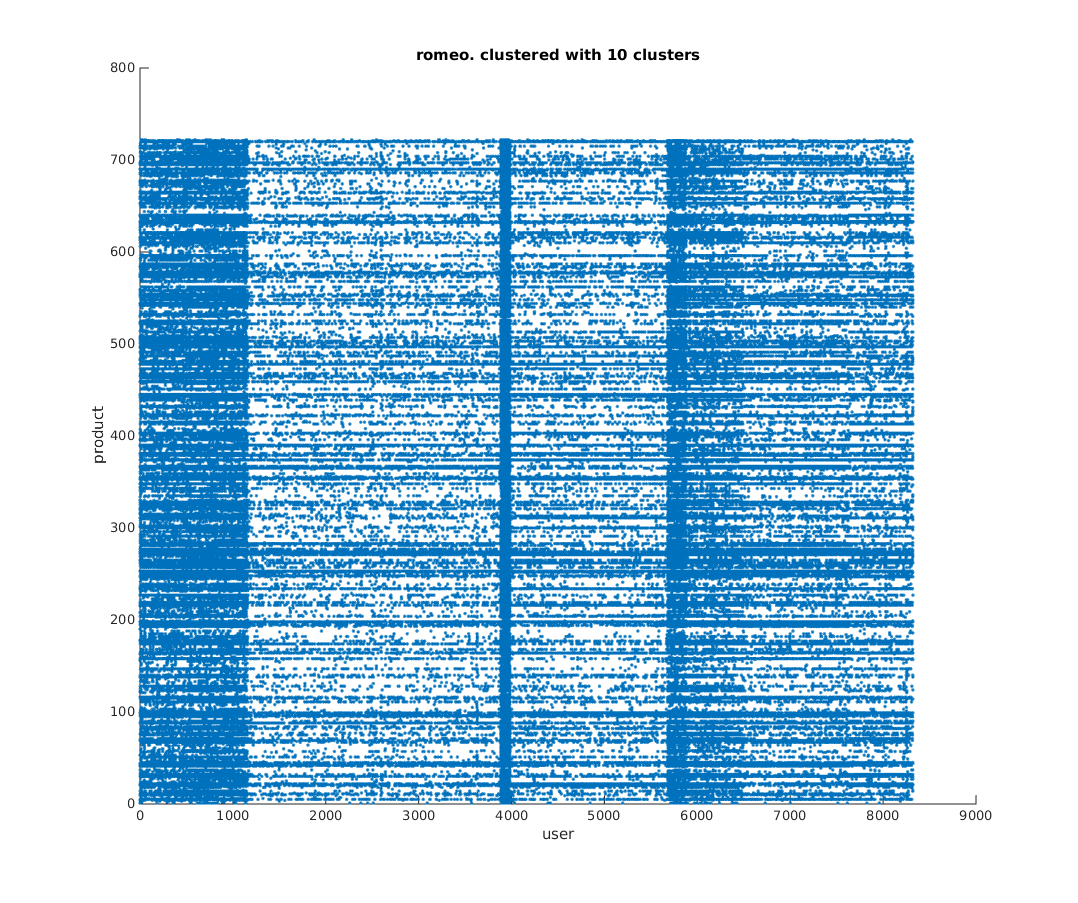
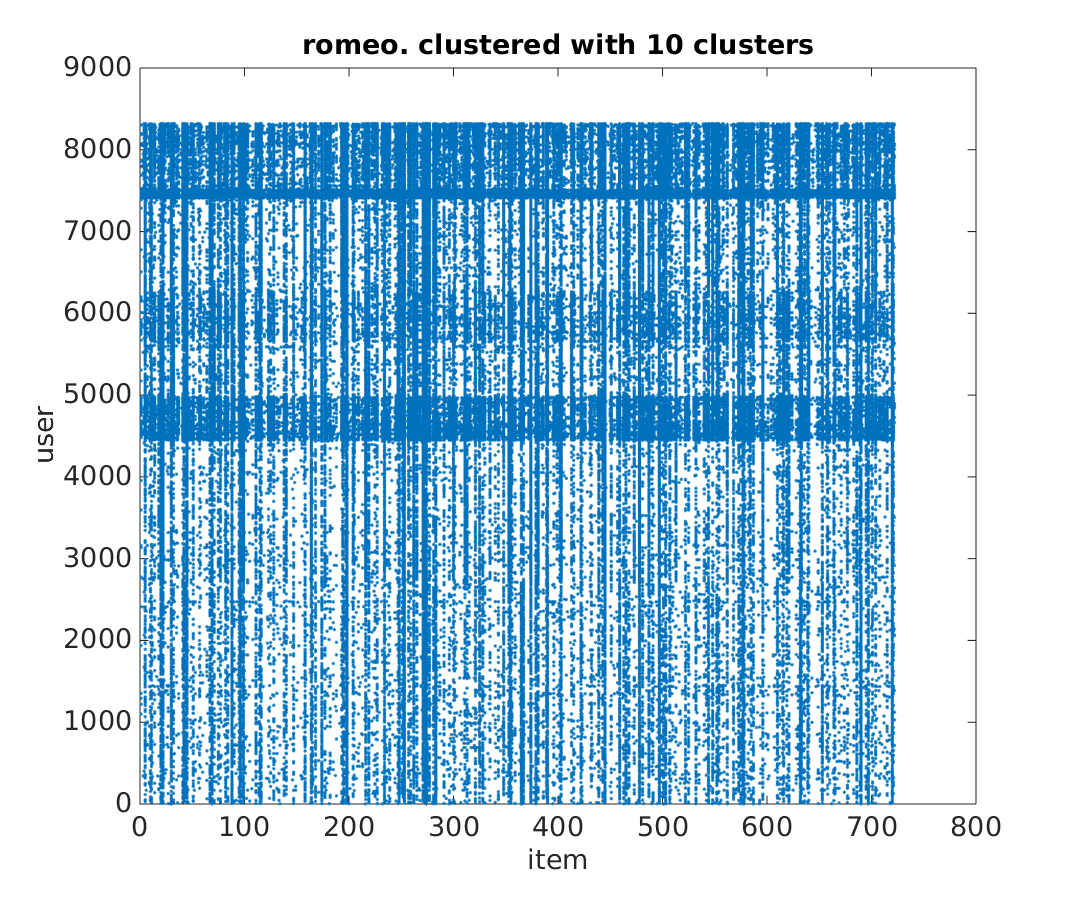
Clustering analysis. Attempt to improve related work.

diff --git a/report/related_work.tex b/report/related_work.tex
@@ -1,24 +1,28 @@
 \chapter{Related Work}\label{cha:relwork}
 
-\Warning[TODO]{ Bind more to questions! }
+A lot of research has been put into recommender systems \citep{bobadilla2013recommender}. Most articles are concerned with improving accuracy of recommender system results, such as minimizing \textit{Root of Mean Square Error} \prmse. This was the case for the popular Netflix Prize \citep{bennett2007netflix} which was concerned with recommending movies given user ratings for other movies. \textit{Explicit feedback} recommender systems continue to be a well researched area \citep{bobadilla2013recommender}. \textit{Implicit feedback} systems, which is the focus of this thesis, have grown in popularity and are being actively researched \citep{hu2008collaborative, bobadilla2013recommender}.
 
-A lot of research has been put into recommender systems \citep{bobadilla2013recommender}. Most articles are concerned with improving accuracy of recommender system results, such as minimizing \textit{Root of Mean Square Error} (\rmse). This was the case for the popular Netflix Prize \citep{bennett2007netflix} which was concerned with recommending movies given user ratings for other movies. Explicit feedback recommender systems continue to be a well researched area \citep{bobadilla2013recommender}.
+According to \citep{lai2012hybrid} the \textit{Top-N Recommendation problem} is the real problem of many on-line recommender systems and it's common to seek improvements for recommendation quality, using \textit{Precision} or \textit{Recall} \citep{bobadilla2013recommender}. This is also the focus of this thesis.
 
-According to \citep{lai2012hybrid} the \textit{Top-N Recommendation problem} is the real problem of many on-line recommender systems and it's common to seek improvements for recommendation quality, using \textit{Precision} or \textit{Recall} \citep{bobadilla2013recommender}. The 2nd Linked Open Data-enabled Recommender Systems Challenge
+The 2nd Linked Open Data-enabled Recommender Systems Challenge
 \footnote{2nd Linked Open Data-enabled Recommender Systems Challenge, 2015. \url{http://sisinflab.poliba.it/events/lod-recsys-challenge-2015/}}
-is another competition which focuses on improving recommendation quality for the Top-N Recommendation problem as well as additional objectives such as \textit{diversity} \citep{bobadilla2013recommender}.
-\Warning[TODO]{ Describe the Top-N rec problem before! }
+is another competition which focuses on improving recommendation quality for the Top-N Recommendation problem as well as additional objectives such as \textit{diversity} \citep{bobadilla2013recommender}. The recommender system challenge uses \textit{explicit feedback} in the form of likes, but the data format is compatible with the model this thesis uses \eqref{eq:hist}. They do use item meta-data such as genres, albums and actors which is not applicable to the general \textit{implicit feedback} system this thesis is focused on.
 
-Implicit feedback systems have grown in popularity and are also being researched \citep{hu2008collaborative, bobadilla2013recommender}. Together with the research many versions of different recommender systems have been implemented, with recommender systems becoming more and more popular \citep{bobadilla2013recommender}. One of the most popular types are hybrid recommender systems which combine different types of data and algorithms \citep{bobadilla2013recommender, lai2012hybrid}. This was the winning approach for the Netflix Prize which combined 107 different algorithms in different ways to produce the final recommendations
+Together with the research many versions of different recommender systems have been implemented, with recommender systems becoming more and more popular \citep{bobadilla2013recommender}. One of the most popular types are hybrid recommender systems which combine different types of data and algorithms \citep{bobadilla2013recommender, lai2012hybrid}. This was the winning approach for the Netflix Prize which combined 107 different algorithms in different ways to produce the final recommendations
 \footnote{ Netflix: Recommendations beyond 5 stars (Part 1), 2012. \url{http://techblog.netflix.com/2012/04/netflix-recommendations-beyond-5-stars.html} }.
 
 A related approach is to organize the data into different subsets or clusters and then make recommendations using these subsets. This was negatively evaluated by \citep{cacheda2011comparison} however more positive results were given by a \textit{Clustered Low-Rank Approximation} \citep{niklas, savas2011clustered}.  This was evaluated for user ratings using \rmse and speed benefits were theorized upon but not evaluated.
+\Warning[TODO]{ Shall we use or don't use this clustering? }
+
+Optimization strategies for parameter tuning differ depending on the algorithms. Alternating-least-squares is an algorithm with it's own optimization process \citep{hu2008collaborative} and variations of gradient descent is a popular choice for optimizing continuous functions \citep{cacheda2011comparison}. These are not applicable and no literature concerning parameter optimization could be found for either \textit{link-analysis} nor \textit{katz-eig}.  Grid search seems to be the recommended approach for optimizing hyperparameters
+\footnote{Recommended by Andrew Ng for the course Machine Learning, Stanford. \url{https://class.coursera.org/ml-006}}
+.
 
 The \textit{link-analysis} algorithm compared favorably in recommendation quality by \citep{huang2007comparison}. But without any analysis of the algorithm's parameters and no mention of the relative speed of the algorithm. The parameter values are simply stated but not commented on any further. No literature with further comments on the parameters could be found.
 
-Similarly \textit{katz-eig} had some positive recommendation quality results \citep{shin2012multi} but no parameter analysis and no mention of the algorithm's speed. No literature for parameter tuning could be found.
+Similarly \textit{katz-eig} had some positive recommendation quality results \citep{shin2012multi} but without parameter analysis and no mention of the algorithm's speed. No literature for parameter tuning could be found.
 
-There is research for how to optimize parameters and learn models for other algorithms, but no such literature could be found for \textit{link-analysis} or \textit{katz-eig}.
+%There is research for how to optimize parameters and learn models for other algorithms, but no such literature could be found for \textit{link-analysis} or \textit{katz-eig}.
 
 \Warning[TODO]{ Mention evaluation metrics }
 

diff --git a/report/results/data.tex b/report/results/data.tex
@@ -18,71 +18,7 @@
 
 \textit{Some description here?}
 
-\subsection{Number of interactions}\label{sec:result:interactions}
+\input{data/interactions.tex}
 
-What follows is some graphs describing the number of interactions each user has and the number of interaction each item has in the datasets.
-
-\FloatBarrier
-
-\twopic{fig/data/alphaS_items_per_user.png}{fig/data/alphaS_users_per_item.png}{
-\textit{alphaS}
-}
-
-In \textit{alphaS} each user and each item has interactions with a small fraction of the available items and users. There are many users with very few interactions and also many items which few users has interacted with. In contrary to the appearance of these graphs, no users or items have 0 interactions. There are a couple of users with more than 400 interactions and there are some items which more than 600 users have bought.
-
-The graphs for \textit{alpha} and \textit{alpha2} are very similar but not included as the large dataset size makes the histogram barely visible. The basic appearance is the same with very many with few interactions and few with a lot of interactions, both for users and for items.
-
-\newpage
-
-\twopic{fig/data/eswc2015books_items_per_user.png}{fig/data/eswc2015books_users_per_item.png}{
-\textit{eswc2015books}
-}
-
-\twopic{fig/data/eswc2015movies_items_per_user.png}{fig/data/eswc2015movies_users_per_item.png}{
-\textit{eswc2015movies}
-}
-
-\twopic{fig/data/eswc2015music_items_per_user.png}{fig/data/eswc2015music_users_per_item.png}{
-\textit{eswc2015music}
-}
-
-\FloatBarrier
-
-All eswc datasets have similar distributions with more concentrated interactions. There is a lower limit for the number of interactions each user has, this is probably a constraint eswc introduced when creating the datasets. There are also no extreme outliers with many more interactions than the norm.
-
-The item interactions are more spread, with many items having interacted with relatively few user but some items having a lot of interactions.
-
-\newpage
-
-\twopic{fig/data/movielens1m_items_per_user.png}{fig/data/movielens1m_users_per_item.png}{
-\textit{movielens1m}
-}
-
-\twopic{fig/data/romeo_items_per_user.png}{fig/data/romeo_users_per_item.png}{
-\textit{romeo}
-}
-
-Both \textit{movielens1m} and \textit{romeo} have a more normalized look to them, especially with thenumber of user interactions per item compared to the other datasets. There are still outliers with many more interactions however.
-
-\FloatBarrier
-
-In general two distinct types of users can be identified. The first is a user with only a couple of item interactions, this appears to be the most common type of user. It could possibly be users who try out a service but for some reason they do not continue or they are new users who just recently started using the service. The other user type is the one with a lot of item interactions, way more than the norm, and they are quite rare
-\footnote{Parallels can be drawn to what is known as big spenders or ``whales'' in the social-gaming community. They make up a tiny group of the community but they drive most of the revenue for the game publishers. For a more in depth discussion see \\
-VentureBeat: What it means to be a ``whale'' — and why social gamers are just gamers, 2013. \\
-\url{http://venturebeat.com/2013/03/14/whales-and-why-social-gamers-are-just-gamers/} }
-.
-
-A similar classification can be made for items. The vast majority of items has only a couple of user interactions. Perhaps these are new items few users have found out about or niche items not interesting to most users. Then there are items with a lot more user interactions than what is common. This phenomenon with a few very popular items is also seen in mobile app stores where 1.6\% of app developers make more than the other 98.4\% combined
-\footnote{
-readwrite: Among Mobile App Developers, The Middle Class Has Disappeared, 2014. \\
-\url{http://readwrite.com/2014/07/22/app-developers-middle-class-opportunities}
-}
-.
-
-
-\subsection{Clusters}\label{sec:result:clusters}
-
-\twopic{fig/data/romeo_original.png}{fig/data/romeo_10-clusters.png}{
-\textit{romeo}
-}
+\input{data/clusters.tex}
 

diff --git a/report/results/data/interactions.tex b/report/results/data/interactions.tex
@@ -1,0 +1,64 @@
+
+\subsection{Number of interactions}\label{sec:result:interactions}
+
+
+What follows is some graphs describing the number of interactions each user has and the number of interaction each item has in the datasets.
+
+\FloatBarrier
+
+\twopic{fig/data/alphaS_items_per_user.png}{fig/data/alphaS_users_per_item.png}{
+\textit{alphaS}
+}
+
+In \textit{alphaS} each user and each item has interactions with a small fraction of the available items and users. There are many users with very few interactions and also many items which few users has interacted with. In contrary to the appearance of these graphs, no users or items have 0 interactions. There are a couple of users with more than 400 interactions and there are some items which more than 600 users have bought.
+
+The graphs for \textit{alpha} and \textit{alpha2} are very similar but not included as the large dataset size makes the histogram barely visible. The basic appearance is the same with very many with few interactions and few with a lot of interactions, both for users and for items.
+
+\newpage
+
+\twopic{fig/data/eswc2015books_items_per_user.png}{fig/data/eswc2015books_users_per_item.png}{
+\textit{eswc2015books}
+}
+
+\twopic{fig/data/eswc2015movies_items_per_user.png}{fig/data/eswc2015movies_users_per_item.png}{
+\textit{eswc2015movies}
+}
+
+\twopic{fig/data/eswc2015music_items_per_user.png}{fig/data/eswc2015music_users_per_item.png}{
+\textit{eswc2015music}
+}
+
+\FloatBarrier
+
+All eswc datasets have similar distributions with more concentrated interactions. There is a lower limit for the number of interactions each user has, this is probably a constraint eswc introduced when creating the datasets. There are also no extreme outliers with many more interactions than the norm.
+
+The item interactions are more spread, with many items having interacted with relatively few user but some items having a lot of interactions.
+
+\newpage
+
+\twopic{fig/data/movielens1m_items_per_user.png}{fig/data/movielens1m_users_per_item.png}{
+\textit{movielens1m}
+}
+
+\twopic{fig/data/romeo_items_per_user.png}{fig/data/romeo_users_per_item.png}{
+\textit{romeo}
+}
+
+Both \textit{movielens1m} and \textit{romeo} have a more normalized look to them, especially with thenumber of user interactions per item compared to the other datasets. There are still outliers with many more interactions however.
+
+\FloatBarrier
+
+In general two distinct types of users can be identified. The first is a user with only a couple of item interactions, this appears to be the most common type of user. It could possibly be users who try out a service but for some reason they do not continue or they are new users who just recently started using the service. The other user type is the one with a lot of item interactions, way more than the norm, and they are quite rare
+\footnote{Parallels can be drawn to what is known as big spenders or ``whales'' in the social-gaming community. They make up a tiny group of the community but they drive most of the revenue for the game publishers. For a more in depth discussion see \\
+VentureBeat: What it means to be a ``whale'' — and why social gamers are just gamers, 2013. \\
+\url{http://venturebeat.com/2013/03/14/whales-and-why-social-gamers-are-just-gamers/} }
+.
+
+A similar classification can be made for items. The vast majority of items has only a couple of user interactions. Perhaps these are new items few users have found out about or niche items not interesting to most users. Then there are items with a lot more user interactions than what is common. This phenomenon with a few very popular items is also seen in mobile app stores where 1.6\% of app developers make more than the other 98.4\% combined
+\footnote{
+readwrite: Among Mobile App Developers, The Middle Class Has Disappeared, 2014. \\
+\url{http://readwrite.com/2014/07/22/app-developers-middle-class-opportunities}
+}
+.
+
+

diff --git a/report/results/data/clusters.tex b/report/results/data/clusters.tex
@@ -1,0 +1,50 @@
+
+
+\subsection{Clusters}\label{sec:result:clusters}
+
+This is a simple clustering analysis of the datasets, clustered on a user basis.
+
+The clustering algorithm used is k-means, operating on $U * S$ if $U * S * V'$ forms a rank $k$ SVD approximation of the interaction matrix $A$. The resulting rows in the matrix (the user ones) are then reordered and grouped with respect to their clusters.
+
+This will try to group similar users next to each other. The used number of clusters is 10, this is not the optimal number of clusters for the datasets but the results are still useful for determining if there exists any clusters in the datasets.
+
+Some of the graphs will be sparse and some will appear to be very dense. This is mostly due to resolution issues as when the dataset grow, even though the sparsity might be lower, the number of data points grow but the size of each data point in the graphs are the same.
+
+\FloatBarrier
+
+\twopic{fig/data/alphaS_original.png}{fig/data/alphaS_10-clusters.png}{
+\textit{alphaS}
+}
+
+In \textit{alphaS} there are some clusters whith relatively few item interactions, but the other clusters aren't very prominent. Both \textit{alpha} and \textit{alpha2} are so large the resolution isn't enough to capture any individual data points so their graphs doesn't show anything of value so they are not included here.
+
+\twopic{fig/data/eswc2015books_original.png}{fig/data/eswc2015books_10-clusters.png}{
+\textit{eswc2015books}
+}
+
+\FloatBarrier
+
+\textit{eswc2015books} doesn't seem to have any major clusters, the dataset doesn't appear to have any structure except for a few streaks of very popular items.
+
+\FloatBarrier
+
+\twopic{fig/data/eswc2015movies_original.png}{fig/data/eswc2015movies_10-clusters.png}{
+\textit{eswc2015movies}
+}
+
+\twopic{fig/data/eswc2015music_original.png}{fig/data/eswc2015music_10-clusters.png}{
+\textit{eswc2015music}
+}
+
+\textit{eswc2015movies} and \textit{eswc2015music} in contrast display more prominent clusters. There are clusters who concentrate more on a subset of items, and there are clusters with higher interaction count.  Similarly \textit{movielens1m} and \textit{romeo} also have distinct clusters.
+
+\twopic{fig/data/movielens1m_original.png}{fig/data/movielens1m_10-clusters.png}{
+\textit{movielens1m}
+}
+
+\twopic{fig/data/romeo_original.png}{fig/data/romeo_10-clusters.png}{
+\textit{romeo}
+}
+
+\FloatBarrier
+

diff --git a/report/kmeans.tex b/report/kmeans.tex
@@ -1,0 +1,6 @@
+
+\chapter{k-means clustering}\label{cha:kmeans}
+
+\textit{k-means clustering explanation here}
+\Warning[TODO]{ Write! }
+

diff --git a/report/main.tex b/report/main.tex
@@ -63,6 +63,7 @@
 \appendix
 \include{definitions}
 \include{svd}
+\include{kmeans}
 \include{code}
 \include{rand_thoughts}
 
